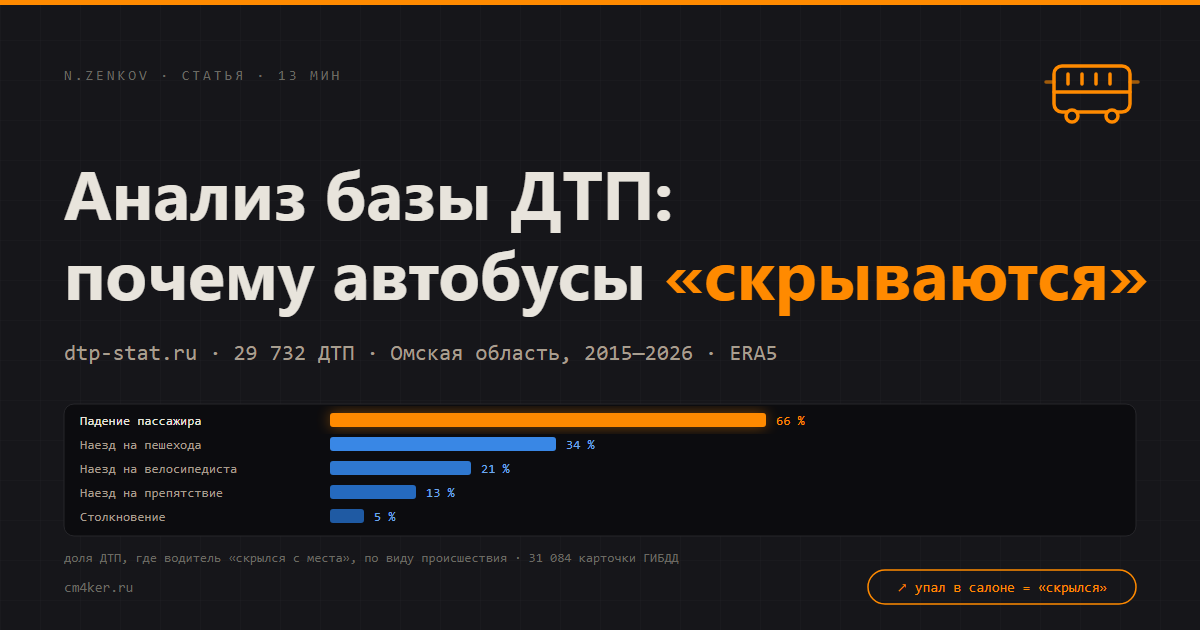
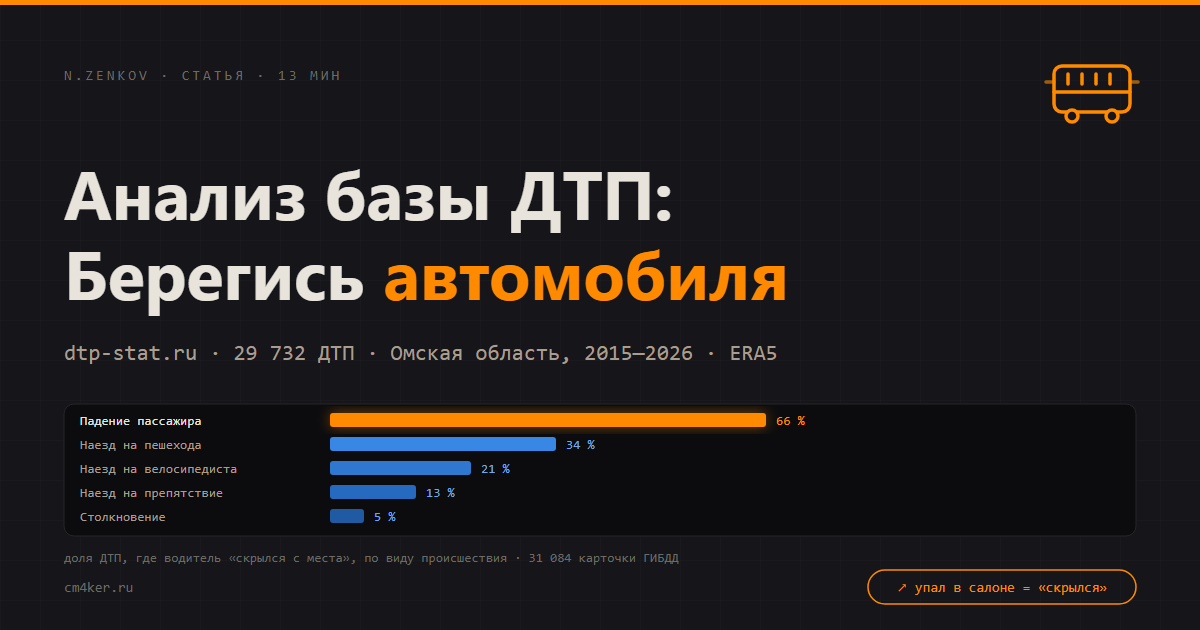
Берегись автомобиля: живые вставки, мем и новая обложка
Убрал дубли и склейки, повторяющиеся оговорки и подписи-слоганы.
Добавил эпиграф, реплики в авторском голосе и мем «Карл» про ремень в автобусе.

Changed region(s): [[0.0617, 0.3921, 0.9558, 0.5127]]

diff --git a/content/articles/omsk-dtp-base.md b/content/articles/omsk-dtp-base.md
@@ -1,7 +1,9 @@
 ---
-title: "Анализ базы ДТП: почему автобусы «скрываются с места»"
+title: "Анализ базы ДТП: Берегись автомобиля"
 date: 2026-09-10
 ---
+_Он, конечно, виноват. Но он… не виноват!_
+
 Наткнулся на открытую базу ДТП по Омской области — почти тридцать тысяч карточек ГИБДД с координатами за одиннадцать лет — и не удержался: собрал по ней сайт, [gibdd.cm4ker.ru](http://gibdd.cm4ker.ru/). Заодно заметил странность: при падении пассажира водитель очень часто отмечен как «скрывшийся с места ДТП».
 
 <figure class="article-figure article-figure--wide">
@@ -11,7 +13,7 @@ date: 2026-09-10
 
 ## Оглавление
 
-- [Как я на неё наткнулся](#как-я-на-неё-наткнулся)
+- [Как всё началось](#как-всё-началось)
 - [Откуда данные](#откуда-данные)
 - [Что внутри карточки](#что-внутри-карточки)
 - [Прикручиваем погоду](#прикручиваем-погоду)
@@ -19,22 +21,22 @@ date: 2026-09-10
 - [Что посмотреть на сайте](#что-посмотреть-на-сайте)
 - [Сноски](#сноски)
 
-## Как я на неё наткнулся
+## Как всё началось
 
-После [дашборда по погоде Омска](/post/omsk-weather-dashboard) у меня остался суточный ряд за сто лет и зуд: к чему бы его ещё приложить. Искал открытые данные по городу и наткнулся на «Карту ДТП» — [dtp-stat.ru](https://dtp-stat.ru). Там есть страница «Скачать данные», а на ней — geojson по каждому региону.
+После [дашборда по погоде Омска](/post/omsk-weather-dashboard) у меня остался суточный ряд за сто лет и зуд: к чему бы его ещё приложить. Искал открытые данные по городу и нашёл «Карту ДТП» — [dtp-stat.ru](https://dtp-stat.ru). Там есть страница «Скачать данные», а на ней — geojson по каждому региону.
 
 Омская область — с января 2015-го по январь 2026-го, под семьдесят мегабайт в распакованном виде. Скачал «посмотреть одним глазом». Через неделю у меня был ETL на Node, три страницы на React и куча вопросов к данным.
 
 ## Откуда данные
 
-Исходник всего этого — ГИБДД. У неё есть сайт [stat.gibdd.ru](http://stat.gibdd.ru), «Показатели состояния безопасности дорожного движения»: картограмма по регионам, статистика по месяцам, раздел «Открытые данные (API)». Каждая авария рождается там как карточка: координаты, участники, кто что нарушил. Но отдать карточки одним файлом за одиннадцать лет сайт не умеет, они грузятся порциями через внутренний API, по району и по месяцу. В итоге для страницы про водителей я их так и выкачал: 33 района на двенадцать лет, четыре сотни запросов, пять минут.
+Исходник всего этого — ГИБДД. У неё есть сайт [stat.gibdd.ru](http://stat.gibdd.ru), «Показатели состояния безопасности дорожного движения»: картограмма по регионам, статистика по месяцам, раздел «Открытые данные (API)». Каждая авария рождается там как карточка: координаты, участники, кто что нарушил. Но отдать карточки одним файлом за одиннадцать лет сайт не умеет, они грузятся порциями через внутренний API, по району и по месяцу.
 
 <figure class="article-figure article-figure--wide">
   <img src="/images/omsk-dtp-base/statgibdd-home.webp" alt="Главная страница stat.gibdd.ru: шапка «Госавтоинспекция», меню «Картограмма, Статистика, Аварийность на ФАД, Электронная карта, Выгрузка показателей БДД, Открытые данные (API)», фильтр «Дорожно-транспортные происшествия, июль 2026» и карта России с регионами, закрашенными красным, зелёным и жёлтым" />
   <figcaption>stat.gibdd.ru. Цвет региона — рост или снижение числа погибших к тому же месяцу прошлого года.</figcaption>
 </figure>
 
-Но начал я с готового. «Карта ДТП» — [dtp-stat.ru](https://dtp-stat.ru) — волонтёрский проект, который выкачивает те же карточки со stat.gibdd.ru, причёсывает названия, правит координаты и раздаёт в двух видах: региональные geojson и годовые картотеки всей России целиком, по полгигабайта на год. Снег, температура, календарь и карта на сайте считаются по региональному geojson.
+Но начал я с готового, с той самой «Карты ДТП». Это волонтёрский проект: он выкачивает те же карточки со stat.gibdd.ru, причёсывает названия, правит координаты и раздаёт в двух видах: региональные geojson и годовые картотеки всей России целиком, по полгигабайта на год. Снег, температура, календарь и карта на сайте считаются по региональному geojson.
 
 <figure class="article-figure article-figure--wide">
   <img src="/images/omsk-dtp-base/dtpstat-opendata.webp" alt="Страница «Скачать данные» на dtp-stat.ru: список регионов с периодом январь 2015 — январь 2026, размером файла и кнопкой «Скачать .geojson»" />
@@ -89,35 +91,35 @@ date: 2026-09-10
 }
 ```
 
-Годовые картотеки — это уже сырые карточки ГИБДД, и полей там заметно больше: результат освидетельствования в промилле, был ли пристёгнут, стаж, основное и сопутствующее нарушение ПДД и поле `ESCAPE` — скрылся ли водитель с места, и если да, нашли ли его потом. Ради него я сначала вытащил Омскую область из полугигабайтных годовых файлов. Но файл за 2018 год оказался копией 2017-го. Поэтому карточки для страницы «Водители» я в итоге забрал напрямую у ГИБДД — как именно, в сноске 2.
+Годовые картотеки — это уже сырые карточки ГИБДД, и полей там заметно больше: результат освидетельствования в промилле, был ли пристёгнут, стаж, основное и сопутствующее нарушение ПДД и поле `ESCAPE` — скрылся ли водитель с места, и если да, нашли ли его потом. Ради него я сначала вытащил Омскую область из полугигабайтных годовых файлов. Распаковал полгигабайта, прогнал скрипт — а 2018-й один в один 2017-й, вплоть до номеров карточек. Надули! (Скорее всего, не нарочно.) Поэтому карточки для страницы «Водители» я в итоге забрал напрямую у ГИБДД — как именно, в сноске 2.
 
 ## Прикручиваем погоду
 
-Погода — суточный ряд ERA5 через [open-meteo.com](https://open-meteo.com) для точки в центре Омска. Да, это реанализ, а не станция, и в статье про погоду я сам за это ругался. Но здесь мне нужна не температура на десятые доли градуса, а «был ли мороз» и «лежал ли снег». Высоты снежного покрова по часам у станционных сводок нет, а у ERA5 есть. Третья таблица — производственный календарь с [xmlcalendar.ru](https://xmlcalendar.ru): рабочий день, предпраздничный, выходной.
+Погода — суточный ряд ERA5 через [open-meteo.com](https://open-meteo.com) для точки в центре Омска. Да, тот самый реанализ, который в статье про погоду показался мне не совсем спортивным. Но тут не до спорта: надо знать, был ли мороз и лежал ли снег. Высоты снежного покрова по часам у станционных сводок нет, а у ERA5 есть. Третья таблица — производственный календарь с [xmlcalendar.ru](https://xmlcalendar.ru): рабочий день, предпраздничный, выходной.
 
-Всё это склеиваю по дате в одну таблицу «сутки», и дальше считает один скрипт у меня на ноутбуке. Сайт получает готовые JSON и ничего не считает на лету. Вот что вышло.
+Всё это склеиваю по дате в одну таблицу «сутки», и дальше считает один скрипт у меня на ноутбуке.
 
 **Первый снег.** Первым снегом считаю первый день сезона, когда по ERA5 лёг покров хотя бы в пару сантиметров. Для каждого сезона отдельно считаю среднее число ДТП за три недели до похолодания. Его беру за основу для сравнения, иначе аварийный 2015 год перевесил бы тихий 2022-й.
 
 <figure class="article-figure article-figure--wide">
   <img src="/images/omsk-dtp-base/gibdd-snow-dark.webp" alt="График аварийности вокруг дня, когда лёг снег: линия среднего по 11 сезонам с пиком в день снега и провалом на двенадцатый день, полоса — половина сезонов" />
-  <figcaption>В день, когда лёг снег, аварий почти на четверть больше обычного. Через две недели — на треть меньше.</figcaption>
+  <figcaption>Ноль на оси — день, когда лёг снег. Линия — среднее по одиннадцати сезонам, полоса — где лежит половина сезонов.</figcaption>
 </figure>
 
-Первый снег все ждут и всё равно бьются. Потом то ли привыкают, то ли оставляют машину дома.
+В сам день снега аварий почти на четверть больше обычного, а через две недели — на треть меньше. Первый снег все ждут и всё равно бьются. Потом то ли привыкают, то ли оставляют машину дома.
 
-**Температура.** Чем холоднее, тем чаще в карточке отмечены «недостатки зимнего содержания»: при плюсовой ночи это одна авария из десяти, при −30 — три из четырёх. Само число аварий в сутки при этом падает: в оттепель их заметно больше, чем в трескучий мороз. Возможно, в сильный мороз просто меньше ездят. Данных о числе поездок у меня нет, поэтому проверить эту версию я не могу.
+**Температура.** Чем холоднее, тем чаще в карточке отмечены «недостатки зимнего содержания» — снег, лёд, колея: при плюсовой ночи это одна авария из десяти, при −30 — три из четырёх. Само число аварий в сутки при этом падает: в оттепель их заметно больше, чем в трескучий мороз. Видимо, в −30 нормальный человек машину не заводит (или она сама не заводится). Сколько машин выехало, в карточках, увы, не пишут.
 
 <figure class="article-figure article-figure--wide">
   <img src="/images/omsk-dtp-base/gibdd-winter-defect-dark.webp" alt="Столбчатый график доли ДТП с отметкой «недостатки зимнего содержания» по минимальной температуре суток: около трёх четвертей при сильном морозе, плавно вниз до одной десятой выше нуля" />
-  <figcaption>Чем холоднее, тем чаще в карточке отмечены снег, лёд или колея.</figcaption>
+  <figcaption>Доля аварий с отметкой о зимнем содержании дороги, по минимальной температуре суток.</figcaption>
 </figure>
 
 **Календарь.** В выходной аварий чуть меньше, чем в рабочий день, зато погибших на сотню аварий — почти в полтора раза больше. Хуже всего новогодние каникулы и субботы.
 
 <figure class="article-figure article-figure--wide">
   <img src="/images/omsk-dtp-base/gibdd-daykind-dark.webp" alt="Столбчатый график погибших на 100 ДТП по типу дня: рабочий, предпраздничный, рабочая суббота, выходной или праздник; выходной заметно выше остальных" />
-  <figcaption>Аварий в выходной меньше, зато каждая в среднем тяжелее.</figcaption>
+  <figcaption>Погибшие на 100 аварий по типу дня. Тип дня — по производственному календарю.</figcaption>
 </figure>
 
 **Месяц и час.** Самая горячая клетка — октябрь, семь вечера. Зимой вечерний подъём начинается раньше, вместе с сумерками. Тише всего в четыре утра.
@@ -127,15 +129,15 @@ date: 2026-09-10
   <figcaption>Каждая ячейка — число аварий в этот месяц и час за все годы.</figcaption>
 </figure>
 
-**Опьянение.** Нетрезвый водитель — примерно в каждой пятнадцатой аварии, и у половины из них в крови больше шести допустимых порогов. Погибших на сотню таких аварий вчетверо больше, чем у трезвых. В четыре утра нетрезвый водитель почти в каждой третьей карточке, в десять утра — в одной из сорока. С этих цифр началась страница «Водители», и на ней же я споткнулся о поле `ESCAPE`.
+**Опьянение.** Нетрезвый водитель — примерно в каждой пятнадцатой аварии, и у половины из них в крови больше шести допустимых порогов. Шесть! Как они вообще до машины дошли. Погибших на сотню таких аварий вчетверо больше, чем у трезвых. В четыре утра нетрезвый водитель почти в каждой третьей карточке, в десять утра — в одной из сорока. С этих цифр началась страница «Водители», и на ней же я споткнулся о поле `ESCAPE`.
 
 ## Почему столько «скрывшихся» при падении пассажира
 
-Я разложил побеги по видам ДТП. Ожидал, что впереди будут наезды на пешеходов, и они правда высоко — после каждого третьего водитель уезжает. Но первое место с отрывом заняло «падение пассажира»: две трети.
+Я разложил побеги по видам ДТП. Ожидал, что впереди будут наезды на пешеходов, и они правда высоко — после каждого третьего водитель уезжает (после столкновения, для сравнения, — один из двадцати). Но первое место с отрывом заняло «падение пассажира»: две трети! Я сначала полез перепроверять скрипт — думал, перепутал колонки.
 
 <figure class="article-figure article-figure--wide">
   <img src="/images/omsk-dtp-base/gibdd-escape-by-category-dark.webp" alt="Столбчатый график доли ДТП, где водитель скрылся, по виду происшествия: падение пассажира около двух третей, наезд на пешехода около трети, велосипедист, препятствие, съезд, опрокидывание, стоящее ТС и столкновение — заметно ниже" />
-  <figcaption>После столкновения уезжает один водитель из двадцати. После падения пассажира — двое из трёх.</figcaption>
+  <figcaption>Доля ДТП, где водитель скрылся, по виду происшествия.</figcaption>
 </figure>
 
 Что внутри этих карточек, а их за одиннадцать с половиной лет набралось две с половиной тысячи:
@@ -145,9 +147,9 @@ date: 2026-09-10
 - упавший — в пяти случаях из шести женщина; погибших единицы, раненых тысячи;
 - половину скрывшихся водителей потом нашли, половину — так и нет.
 
-Я долго не понимал, как автобус может «скрыться с места ДТП». Возможно, водитель просто не заметил падения, а пассажир обратился за помощью уже после поездки. Это могло бы объяснить такую отметку, но восстановить события по карточке я не могу.
+Я долго не понимал, как автобус может «скрыться с места ДТП». Самое простое объяснение: водитель не заметил падения и поехал дальше, а пассажир обратился за помощью уже после поездки.
 
-По ПДД после ДТП водитель обязан остановиться, включить аварийку и никуда не уезжать. Поехал дальше — это оставление места ДТП, часть 2 статьи 12.27 КоАП: лишение прав на срок от года до полутора лет или арест до 15 суток. Формально нужно доказать, что водитель о падении знал, но объясняться с судом придётся ему. Та самая карточка с Дунайской, как её отдаёт ГИБДД, если убрать пустые поля:
+По ПДД после ДТП водитель обязан остановиться, включить аварийку и никуда не уезжать. Поехал дальше — это оставление места ДТП, часть 2 статьи 12.27 КоАП: лишение прав на срок от года до полутора лет или арест до 15 суток. Но наказать за это можно, только если доказано, что водитель о падении знал. Та самая карточка с Дунайской, как её отдаёт ГИБДД, если убрать пустые поля:
 
 ```json
 {
@@ -172,24 +174,28 @@ date: 2026-09-10
 }
 ```
 
-Почти в каждой второй карточке у пассажира записано «нарушение правил пользования общественным транспортом». Что именно он нарушил, из этой формулировки неясно. А у каждого третьего упавшего в поле «ремень безопасности» стоит «Да». В автобусе.
+Почти в каждой второй карточке у пассажира записано «нарушение правил пользования общественным транспортом». Что именно он нарушил, из этой формулировки неясно. А у каждого третьего упавшего в поле «ремень безопасности» стоит «Да». В автобусе!
 
-«Скрывшихся» среди падений с каждым годом меньше: десять лет назад водитель уезжал в трёх падениях из четырёх, сейчас — чуть больше чем в половине. И находить стали чаще: из тех, кто скрылся, десять лет назад не находили двоих из трёх, теперь — одного из трёх. Скорее всего, камеры в салонах, но по самим данным этого не видно. Самих падений тоже стало примерно вдвое меньше, с провалом в ковидные годы.
+<img src="/images/omsk-dtp-base/meme-karl.jpg" width="440" alt="Мем «Карл» из «Ходячих мертвецов»: «Карл, в карточке ДТП упавший пассажир пристёгнут. Ремень безопасности — „Да“. В автобусе, Карл!»" />
+
+Подозреваю, у инспектора в форме «Да» стоит по умолчанию.
+
+«Скрывшихся» среди падений с каждым годом меньше: десять лет назад водитель уезжал в трёх падениях из четырёх, сейчас — чуть больше чем в половине. И находить стали чаще: из тех, кто скрылся, десять лет назад не находили двоих из трёх, теперь — одного из трёх. Я бы поставил на камеры в салонах. Самих падений тоже стало примерно вдвое меньше, с провалом в ковидные годы.
 
 ## Что посмотреть на сайте
 
-На [gibdd.cm4ker.ru](http://gibdd.cm4ker.ru/) три страницы. «Разбор» — снег, температура, календарь и часы. «Водители» — опьянение и побеги, включая всё, что выше про пассажиров. «Карта» — тепловая карта всех точек с фильтрами по годам и тяжести; яркость подстраивается под то, что отфильтровано, поэтому один год виден так же ясно, как все одиннадцать. Как я к этому пришёл, тянет на отдельную заметку.
+На [gibdd.cm4ker.ru](http://gibdd.cm4ker.ru/) три страницы. «Разбор» — снег, температура, календарь и часы. «Водители» — опьянение и побеги по видам ДТП, дням недели и годам. «Карта» — тепловая карта всех точек с фильтрами по годам и тяжести; яркость подстраивается под то, что отфильтровано, поэтому один год виден так же ясно, как все одиннадцать. Как я к этому пришёл, тянет на отдельную заметку.
 
 <figure class="article-figure article-figure--wide">
   <img src="/images/omsk-dtp-base/maplibre-dark.webp" alt="Тёмная карта Омска: сеть улиц светится голубым, самые аварийные перекрёстки почти белые" />
-  <figcaption>Карта за все годы. Улицы читаются как сеть, а не как пятно.</figcaption>
+  <figcaption>Карта за все годы. Чем светлее, тем больше аварий; почти белые точки — перекрёстки.</figcaption>
 </figure>
 
 Точные цифры я сюда намеренно не тащу: у каждого графика на сайте есть кнопка «Таблица», там всё до десятых. Источник данных — карточки ГИБДД со [stat.gibdd.ru](http://stat.gibdd.ru): для «Разбора» и карты — через [dtp-stat.ru](https://dtp-stat.ru), для «Водителей» — напрямую. «Карта ДТП» просит за свои данные активную ссылку, что я и делаю.
 
-Пройдите посмотреть: [gibdd.cm4ker.ru](http://gibdd.cm4ker.ru/). Если найдёте в данных ещё что-нибудь странное — напишите.
+Вот и посмотрел одним глазом. Заходите: [gibdd.cm4ker.ru](http://gibdd.cm4ker.ru/). Если найдёте в данных ещё что-нибудь странное — напишите.
 
 ## Сноски
 
-1. **Модели в региональном geojson dtp-stat битые.** У каждой марки ровно одна модель: все «ВАЗы» — «Нива ВАЗ-2121», все «Тойоты» — Rio, ГАЗы — Lacetti, автобусы ЛиАЗ — Outlander. Похоже, модель подставляется по номеру марки. Проверил двумя способами: по годовым картотекам dtp-stat и напрямую через внутренний API stat.gibdd.ru (`/map/getDTPCardData`, тот же, которым пользуется их карта). Оба говорят одно и то же — Corolla, Camry, ЛиАЗ 5256, — а с geojson модель не совпала ни у одной проверенной машины. На сайте модели нигде не используются, так что на графики это не влияет.
-2. **Файл `2018.json.7z` на dtp-stat — это 2017 год под другим именем**, тот же размер и те же номера карточек. Из-за него я и полез напрямую на stat.gibdd.ru: у их карты есть два JSON-эндпоинта, `/map/getMainMapData` отдаёт дерево районов, `/map/getDTPCardData` — карточки района за список месяцев, страницами по 500. Сверил с dtp-stat по 2016 году: все их карточки есть в API, поля совпадают, у API даже чуть больше. Так страница «Водители» получила 2018 год и первую половину 2026-го.
+1. **Модели в региональном geojson dtp-stat битые.** У каждой марки ровно одна модель: все «ВАЗы» — «Нива ВАЗ-2121», все «Тойоты» — Rio, ГАЗы — Lacetti, автобусы ЛиАЗ — Outlander. Автобус ЛиАЗ Outlander я бы посмотрел. Сначала грешил на свой парсер. Похоже, модель подставляется по номеру марки. Проверил двумя способами: по годовым картотекам dtp-stat и напрямую через внутренний API stat.gibdd.ru (`/map/getDTPCardData`, тот же, которым пользуется их карта). Оба говорят одно и то же — Corolla, Camry, ЛиАЗ 5256, — а с geojson модель не совпала ни у одной проверенной машины. На сайте модели нигде не используются.
+2. **Файл `2018.json.7z` на dtp-stat — это 2017 год под другим именем**, тот же размер и те же номера карточек. Из-за него я и полез напрямую на stat.gibdd.ru: у их карты есть два JSON-эндпоинта, `/map/getMainMapData` отдаёт дерево районов, `/map/getDTPCardData` — карточки района за список месяцев, страницами по 500. Для Омской области это около четырёхсот запросов: 33 района на 12 календарных лет. Скачивается минут за пять. Сверил с dtp-stat по 2016 году: все их карточки есть в API, поля совпадают, у API даже чуть больше. Так страница «Водители» получила 2018 год и первую половину 2026-го.
